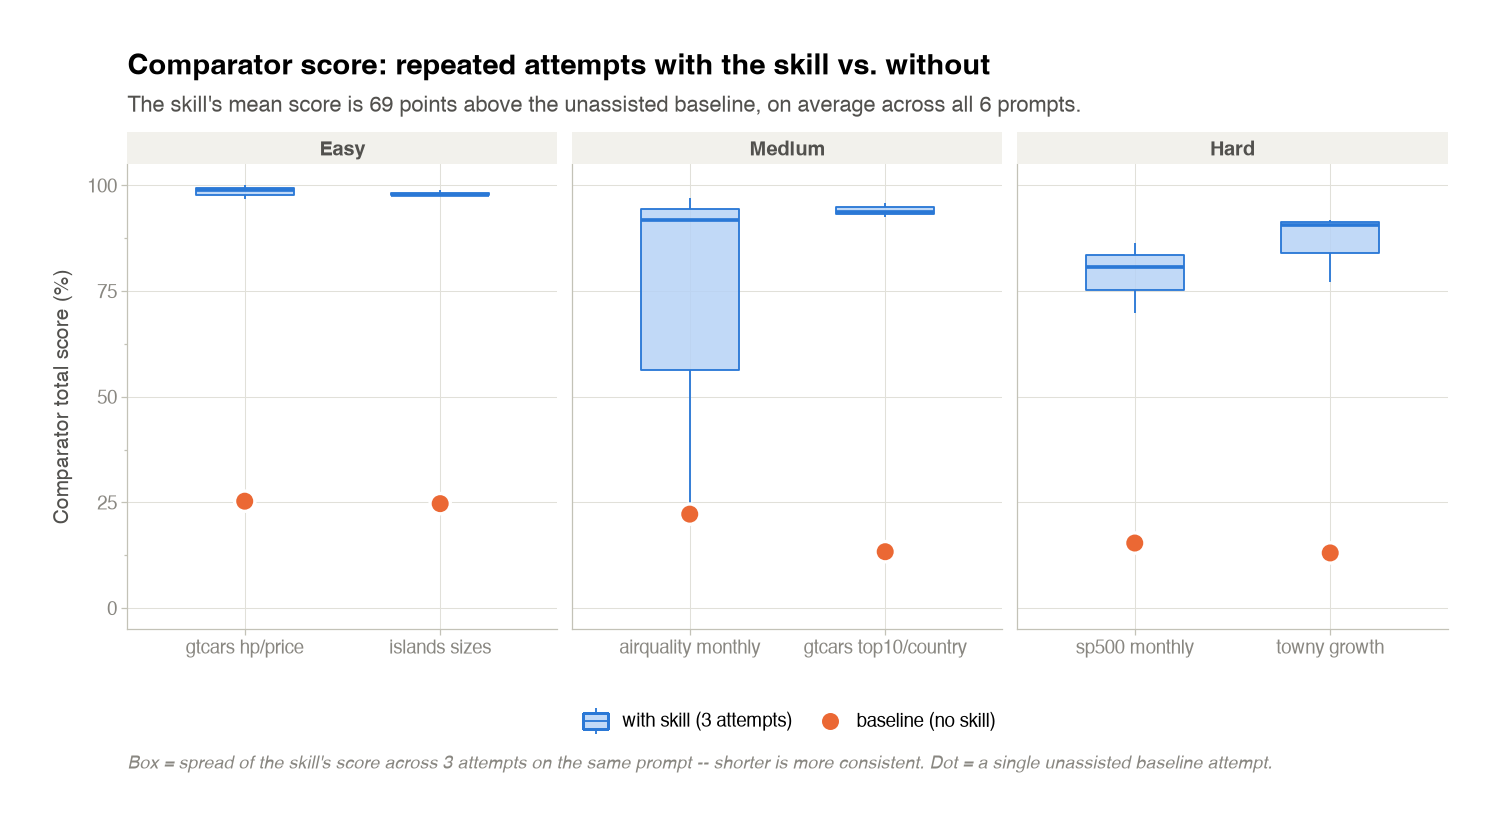
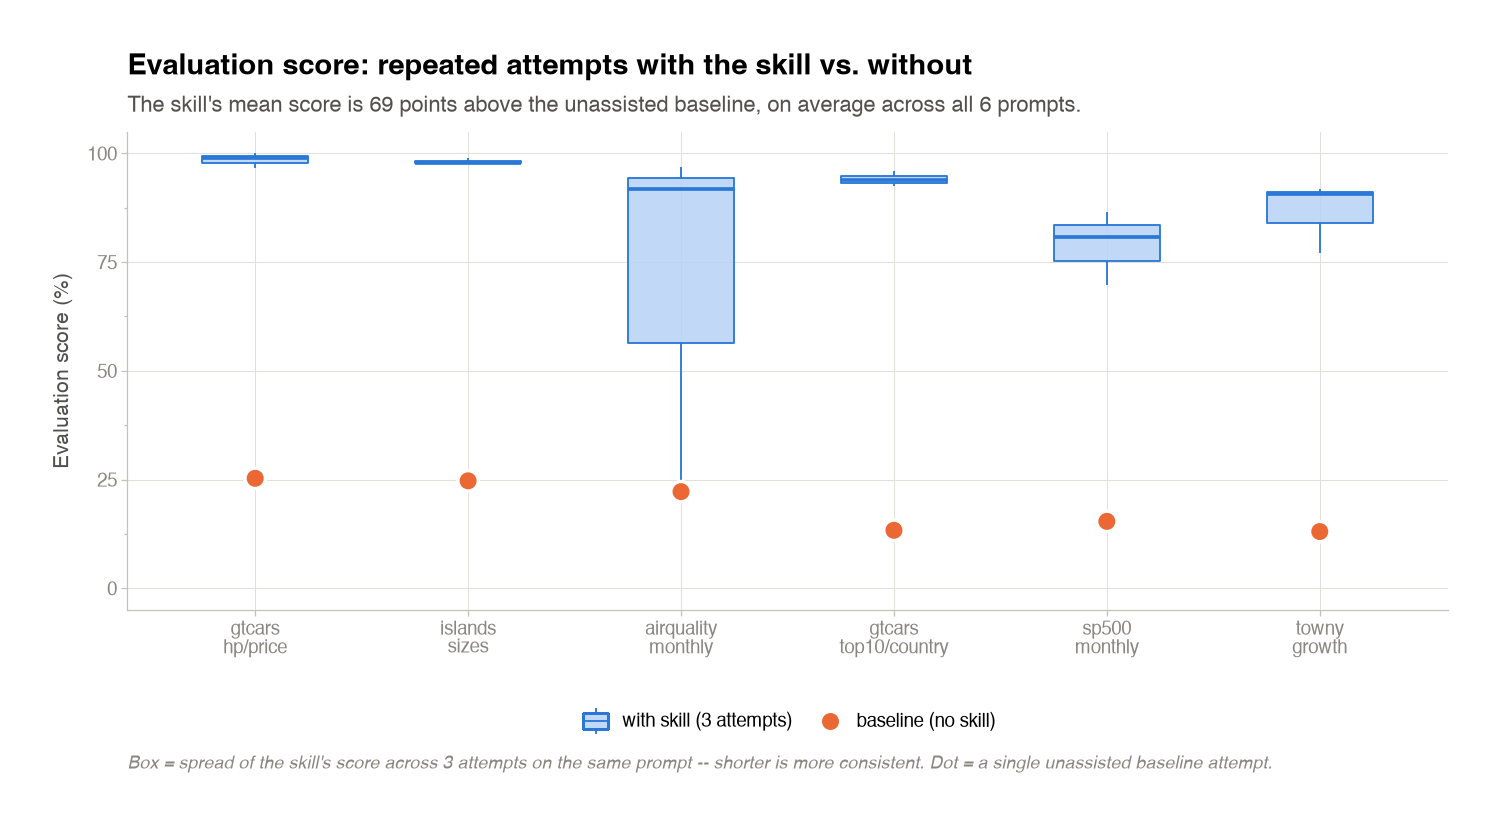
fix(eval-results): PR #120 review round — 6 findings addressed
1. Regenerated all 6 comparator_score.png/usage.png plots from the
   already-recomputed round-5 metrics.json using main's post-#118
   _plots.py (plain json.load(), no re-scoring/judge calls) so they
   match the new "evaluation score" design and no longer visually
   conflict with main's already-merged plot regen.
2. Fixed 4 stale round-4 prose spread references (8.2pp -> 8.1pp) that
   had re-introduced a figure main's b143c10 already corrected.
3. Rewrote the house/towny_growth_trends narrative (top-level SUMMARY.md
   and house/SUMMARY.md): the rowname_col= stub bug is confirmed fixed,
   but the colored-measure-coverage check regressed this round (0/11,
   0/11, 6/11-FAIL) vs. round 4 (0/11, 11/11, 5/11) -- repeat_3 does not
   match the ground truth's two-colored-measure design, it only earns
   credit for density columns; zero of the 5 canonical pop_change_*_pct
   measures were covered by any round-5 repeat.
4. Added a committed README.md next to
   scripts/samples/airquality_monthly_summary/repeat_2 recording the
   tool-call-count comparison (4 vs. 14 vs. 18, no Skill invocation)
   as a self-contained fact, not dependent on the gitignored transcript.
5. Added the house/islands_sizes regression (94.0%/7.9pp -> 85.4%/24.7pp)
   to the honest-limitations sections in both SUMMARY.md files.
6. Nits: 36 lines -> 35 (actual line count), and a grammar fix to the
   "Overall picture" section's opening sentence.

diff --git a/eval-results/SUMMARY.md b/eval-results/SUMMARY.md
@@ -990,7 +990,7 @@ re-expose. Sweep dirs: `runs/sweep/20260813_161436_house_6prompts`,
 | Skill | Mean score | vs. round-4 baseline | Mean spread | vs. round-4 baseline spread |
 |---|---|---|---|---|
 | `house` | 83.5% | +0.2pp (83.3%) | 8.9pp | 16.4pp |
-| `prose` | 87.9% | +3.2pp (84.7%) | 9.9pp | 8.2pp |
+| `prose` | 87.9% | +3.2pp (84.7%) | 9.9pp | 8.1pp |
 | `scripts` | 87.7% | +1.7pp (86.0%) | 19.2pp | 16.4pp |
 
 All figures independently recomputed from this round's actual committed
@@ -1002,7 +1002,7 @@ kind of run-to-run noise a 3-repeat haiku sample produces on an unchanged
 codebase — none of the three moved enough to read as a real effect one
 way or the other. **Consistency (mean spread) is the more mixed part of
 the picture: it improved substantially for `house` (16.4pp → 8.9pp) but
-got WORSE for `scripts` (16.4pp → 19.2pp) and `prose` (8.2pp → 9.9pp)** —
+got WORSE for `scripts` (16.4pp → 19.2pp) and `prose` (8.1pp → 9.9pp)** —
 this is not an unambiguous win, and is explained below by, respectively, a
 brand-new single-repeat outlier (`scripts`) and one wide-spread prompt
 (`prose`), not a systemic regression.
@@ -1030,7 +1030,7 @@ that as the stub, and all three score a clean 10/10 on "Row/entity
 selection identity." This is a clean, unambiguous confirmation — no
 caveats.
 
-### Confirmed, with a caveat: `house/towny_growth_trends`'s catastrophic outlier does not recur — but its actual dominant cause was a different, already-fixed bug, and a milder version of the coloring issue still shows up
+### Confirmed, with a caveat: `house/towny_growth_trends`'s catastrophic outlier does not recur — its dominant cause (a missing stub) is fixed, but the colored-measure-coverage check it also exposed actually regressed this round, not improved
 
 Round 4's `house/towny_growth_trends/repeat_1` scored 39.5% vs. 85–90%
 siblings. Re-reading that round's actual stored report
@@ -1046,36 +1046,37 @@ exact `set_index()`-vs-`rowname_col=` confusion was already a known,
 separately-tracked bug, fixed by PR #107 — not something PR #113 (the
 under-coloring fix) touches.
 
-That said, the same round-4 report also shows a **second, genuine**
-under-coloring problem in that same candidate: "Colored-measure selection"
-scored 0/6 (0/11 canonical colored measures covered), because its one
-`heatmap()` call only touched the raw density columns and never touched
-the inter-census growth/change columns — exactly the pattern PR #113's
-"restrained is not the same as optional" rule targets, just not the
-dominant driver of that repeat's low score.
-
 This round's three fresh `towny_growth_trends` repeats score
 [71.1%, 70.6%, 78.4%] — clustered, no catastrophic outlier — and all
 three now build the stub with `rowname_col=` correctly (confirmed by
-reading each `table.py`) and all three call `heatmap()` at least once
-(also confirmed). But reading all three in full shows the under-coloring
-issue is **not fully gone, just milder**: `repeat_1` and `repeat_2` each
-call `heatmap()` only on the inter-census change/percent columns and
-leave the density columns completely plain (the mirror-image miss from
-round 4's repeat_1, which colored density and left the change columns
-plain); only `repeat_3` calls `heatmap()` on both groups, matching the
-ground truth's two-colored-measure design
-(`CANONICAL_MEASURES["colored"]` in
-`prompts/hard/ground_truth/towny_growth_trends.py` lists both the six
-`density_*` columns and the five `pop_change_*_pct` columns). The
-comparator's own per-repeat "Colored-measure selection" sub-score reflects
-this directly: 0/6 for `repeat_1` and `repeat_2`, 3/6 for `repeat_3`. So:
-the catastrophic-outlier shape is gone, and the specific `set_index()`
-bug that dominated round 4's score is confirmed absent in a fresh sample,
-but "leave one of the two designated colorable measures completely
-uncolored" recurs in 2 of 3 fresh repeats here — it just no longer
-produces a catastrophic score on its own, because it's no longer stacked
-on top of a missing stub.
+reading each `table.py`), so that specific, previously-dominant bug is
+confirmed fixed. But on "Colored-measure selection" itself (11 canonical
+colored measures: 6 `density_*` sequential + 5 `pop_change_*_pct`
+diverging, per `CANONICAL_MEASURES["colored"]` in
+`prompts/hard/ground_truth/towny_growth_trends.py`), coverage got worse,
+not better:
+
+| | repeat_1 | repeat_2 | repeat_3 |
+|---|---|---|---|
+| Round 4 | 0/11 (FAIL) | **11/11 (PASS)** | 5/11 (FAIL) |
+| Round 5 | 0/11 (FAIL) | 0/11 (FAIL) | 6/11 (FAIL) |
+
+Round 4 had one repeat (`repeat_2`) earn full credit here; round 5's best
+repeat (`repeat_3`, 6/11) still fails the check outright, and its 6
+covered measures are all `density_*` columns — its "Computed/derived
+value correctness" sub-score (5/10) lists all five `pop_change_*_pct`
+measures as unmatched. `repeat_3` does visually heatmap two groups
+(`Greens` and `RdYlGn`, per its report), but the second group is a
+density-derived percent-change column of its own invention, not the
+ground truth's `pop_change_*_pct` measures — so, despite appearances, it
+does **not** match the ground truth's two-colored-measure design.
+`repeat_1` and `repeat_2` cover zero canonical colored measures each.
+Across all 3 round-5 repeats, **zero** of the 5 canonical
+`pop_change_*_pct` measures were covered by any repeat, vs. round 4's one
+full-credit repeat. So: the catastrophic-outlier shape is gone and the
+`set_index()` stub bug is confirmed fixed, but on the specific mechanical
+check this prompt was designed to exercise, round 5 is a regression from
+round 4, not an improvement.
 
 ### A new outlier: `scripts/airquality_monthly_summary/repeat_2` (21.1%) — traced to the model skipping the skill invocation entirely, not a doc or comparator gap
 
@@ -1086,31 +1087,32 @@ near-total, comprehensive miss, not a narrow mistake: no stub column, no
 colored measures, no frame, no hairlines, no header branding, no caption
 — 19/90 (21.1%), failing nearly every mechanical check across the board.
 
-Reading `table.py` confirms it: the script is 36 lines of bare
+Reading `table.py` confirms it: the script is 35 lines of bare
 `pandas`/`great_tables` code — `import pandas as pd; from great_tables
 import GT` — with none of the skill's helper imports
 (`gt_consistency.py`, which the sandbox had already made available in the
-same directory) anywhere in it. Reading the run's own transcript
-(`runs/sweep/20260813_161442_scripts_6prompts/prompts/
-airquality_monthly_summary/repeat_2/transcript.json`) makes the cause
-unambiguous: **the model never invoked the `Skill` tool at all** in this
-run — its tool-call sequence is just `Read` (the CSV) → `Write`
-(`table.py`) → `Bash` (run it) → `Read` (view the PNG), 4 calls total in
-5 turns. Its two siblings on the same prompt (`repeat_1`, 14 tool calls;
-`repeat_3`, 18 tool calls) both open with a `Skill` call before doing
-anything else, then read several reference files before writing code —
-the normal pattern. This is a comprehensive, one-off miss (the model
-electing not to invoke an available skill on one specific run, not a
-narrow mistake within an invoked skill), consistent with this project's
-own prior findings elsewhere in this file about haiku-tier sampling
-variance on a 3-repeat sample — not a new doc or comparator gap, since
-the skill materials were present and correctly used by both siblings on
-the identical prompt.
+same directory) anywhere in it. This tool-call-count comparison is a
+committed, self-contained fact (see
+`eval-results/scripts/samples/airquality_monthly_summary/repeat_2/README.md`),
+not dependent on the gitignored transcript it was originally read from:
+**the model never invoked the `Skill` tool at all** in this run — its
+tool-call sequence is just `Read` (the CSV) → `Write` (`table.py`) →
+`Bash` (run it) → `Read` (view the PNG), 4 calls total in 5 turns. Its two
+siblings on the same prompt (`repeat_1`, 14 tool calls; `repeat_3`, 18
+tool calls) both open with a `Skill` call before doing anything else,
+then read several reference files before writing code — the normal
+pattern. This is a comprehensive, one-off miss (the model electing not to
+invoke an available skill on one specific run, not a narrow mistake
+within an invoked skill), consistent with this project's own prior
+findings elsewhere in this file about haiku-tier sampling variance on a
+3-repeat sample — not a new doc or comparator gap, since the skill
+materials were present and correctly used by both siblings on the
+identical prompt.
 
 This is also the main driver of `scripts`' worse mean spread this round
 (19.2pp vs. round 4's 16.4pp): `airquality_monthly_summary`'s own spread
 is 75.8pp (max 96.9%, min 21.1%), by far the widest single-prompt spread
-in this sweep. `prose`'s worse mean spread (9.9pp vs. 8.2pp) has a
+in this sweep. `prose`'s worse mean spread (9.9pp vs. 8.1pp) has a
 different, unrelated driver: `towny_growth_trends` spread 28.9pp
 (`[92.8%, 88.7%, 63.9%]`) — not investigated further here, out of scope
 for this verification pass, which focused on the two round-4-outlier
@@ -1118,14 +1120,24 @@ prompts and the newly-appeared one above.
 
 ### Overall picture
 
-Two of round 4's two catastrophic single-repeat outliers do not recur in
-this fresh sample (`scripts/gtcars_hp_price` cleanly; `house/
+Round 4's two catastrophic single-repeat outliers do not recur in this
+fresh sample (`scripts/gtcars_hp_price` cleanly; `house/
 towny_growth_trends` with the caveat above that its dominant cause was a
-different bug than the one this task set out to check, though a milder
-form of the coloring issue itself persists). Mean scores are flat-to-up
-for all three skills, within noise. Consistency improved substantially
-for `house`, but got worse for `scripts` (a brand-new, unrelated outlier)
-and mildly worse for `prose` — a genuinely mixed result, not a clean
-across-the-board win, and exactly the kind of run-to-run variance a
-3-repeat haiku sample on an unchanged codebase is expected to produce.
-See each skill's own `SUMMARY.md` for the full per-prompt breakdown.
+different, already-fixed bug than the one this task set out to check —
+and, on that actual check, colored-measure coverage regressed rather than
+improved). Mean scores are flat-to-up for all three skills, within noise.
+Consistency improved substantially for `house`, but got worse for
+`scripts` (a brand-new, unrelated outlier) and mildly worse for `prose` —
+a genuinely mixed result, not a clean across-the-board win, and exactly
+the kind of run-to-run variance a 3-repeat haiku sample on an unchanged
+codebase is expected to produce.
+
+**One more honest limitation not yet called out above:** `house`'s
+`islands_sizes` also regressed this round — from round 4's 94.0% mean
+(7.9pp spread) to this round's 85.4% mean (24.7pp spread), driven by
+`repeat_2` scoring 69.7% against ~94–96% siblings. This is `house`'s
+second-largest single-prompt movement this round, after
+`towny_growth_trends` above, and (like that prompt) is not investigated
+further here — out of scope for a verification pass that focused on the
+two round-4 outlier prompts and the newly-appeared `scripts` one. See
+each skill's own `SUMMARY.md` for the full per-prompt breakdown.

diff --git a/eval-results/house/SUMMARY.md b/eval-results/house/SUMMARY.md
@@ -213,32 +213,57 @@ Per-prompt means: `gtcars_hp_price` 97.4%, `gtcars_top10_by_country` 95.1%,
 `islands_sizes` 85.4%, `sp500_monthly_performance` 77.7%, `towny_growth_trends`
 73.4%, `airquality_monthly_summary` 72.2%.
 
-**`towny_growth_trends`'s catastrophic outlier does not recur, but for a more
-nuanced reason than "the under-coloring bug was fixed."** Round 4's `repeat_1`
-scored 39.5%, and re-reading its actual stored report shows the dominant cause was
-a *different*, already-separately-fixed bug: it built `GT(gt_data.set_index('Town'))`
-instead of `rowname_col="Town"`, so no stub existed at all, cascading zeros across
-row identity, value correctness, column-set matching, stub existence, striping, and
-header branding (PR #107 fixed this exact confusion). That same round-4 report also
-shows a genuine, secondary under-coloring problem in the same candidate: its one
-`heatmap()` call touched only `density_cols`, never the inter-census change
-columns — 0/6 on "Colored-measure selection," the pattern PR #113 targets.
+**`towny_growth_trends`'s catastrophic outlier does not recur, but the fix is
+narrower than it first looks, and the specific colored-measure check this table
+was designed to exercise is actually worse this round, not better.** Round 4's
+`repeat_1` scored 39.5%, and re-reading its actual stored report shows the
+dominant cause was a *different*, already-separately-fixed bug: it built
+`GT(gt_data.set_index('Town'))` instead of `rowname_col="Town"`, so no stub
+existed at all, cascading zeros across row identity, value correctness,
+column-set matching, stub existence, striping, and header branding (PR #107
+fixed this exact confusion).
 
 This round's three fresh repeats score `[71.1%, 70.6%, 78.4%]` — clustered, no
 catastrophic outlier. Reading all three `table.py` files confirms all three now
-build the stub with `rowname_col=` (not `.set_index()`) and all three call
-`heatmap()` at least once. But the under-coloring issue is only partially resolved,
-not eliminated: `repeat_1` and `repeat_2` each heatmap only the change/percent
-columns and leave `density_1996`..`density_2021` completely plain (the mirror image
-of round 4's miss); only `repeat_3` heatmaps both groups, matching the ground
-truth's two-colored-measure design (`density_*` sequential, `pop_change_*_pct`
-diverging). The comparator's own sub-scores show this directly: "Colored-measure
-selection" is 0/6 for `repeat_1`/`repeat_2` and 3/6 for `repeat_3`. So: the
-catastrophic-score shape is gone (no repeat is stacking a missing-stub failure on
-top of an under-coloring failure anymore), and the specific `set_index()` bug is
-confirmed absent in a fresh sample, but "leave one of the two designated colorable
-measures completely plain" still shows up in 2 of 3 repeats here — it just no
-longer compounds into a catastrophic score on its own.
+build the stub with `rowname_col=` (not `.set_index()`), so that specific,
+previously-primary bug is confirmed fixed. But on the "Colored-measure selection"
+check itself — 11 canonical colored measures: 6 `density_*` (sequential) + 5
+`pop_change_*_pct` (diverging) — coverage regressed, it did not improve:
+
+| | repeat_1 | repeat_2 | repeat_3 |
+|---|---|---|---|
+| Round 4 | 0/11 (FAIL) | **11/11 (PASS)** | 5/11 (FAIL) |
+| Round 5 | 0/11 (FAIL) | 0/11 (FAIL) | 6/11 (FAIL) |
+
+Round 4 had one repeat (`repeat_2`) earn full credit on this check. Round 5's best
+repeat (`repeat_3`, 6/11) still fails it outright, and — critically — **all 6 of
+its covered measures are the `density_*` columns; none of the 5 canonical
+`pop_change_*_pct` measures are covered.** Its own "Computed/derived value
+correctness" sub-score confirms this directly: 5/10, listing all five
+`pop_change_1996_2001_pct`..`pop_change_2016_2021_pct` measures as unmatched.
+`repeat_3` does color both a sequential and a diverging group visually
+(`Greens` and `RdYlGn`, per its report), but it is coloring the wrong second
+group — density-derived percent-change columns of its own invention, not the
+ground truth's `pop_change_*_pct` measures — so it does **not** match the ground
+truth's two-colored-measure design, despite superficially looking like it does.
+`repeat_1` and `repeat_2` cover zero canonical colored measures each, having
+heatmapped only their own density-derived change columns instead.
+
+Across all 3 round-5 repeats, **zero** of the 5 canonical `pop_change_*_pct`
+measures were covered by any repeat, versus round 4's one full-credit repeat. So
+on this specific mechanical check — the one this prompt was designed to exercise
+most directly — round 5 is worse than round 4, not merely "milder" or
+"incomplete." The `rowname_col=` stub bug is fixed; the measure-coverage
+regression is a separate, unresolved gap this sweep surfaces fresh.
+
+**A second, honest limitation this round: `islands_sizes` also regressed.**
+Round 4's `islands_sizes` scored `[91.0%, 92.1%, 98.9%]` (94.0% mean, 7.9pp
+spread); this round it scores `[94.4%, 69.7%, 92.1%]` (85.4% mean, 24.7pp
+spread) — `repeat_2`'s 69.7% vs. ~92–94% siblings is `house`'s second-largest
+single-prompt movement this round, after `towny_growth_trends` above. Not
+investigated further here — out of scope for a verification pass that focused
+on the two round-4 outlier prompts and the newly-appeared `scripts` one (see
+top-level `SUMMARY.md`).
 
 Execution: 24/24 successful (no crashes), consistent with `prose` and `scripts`
 this round — see the top-level `SUMMARY.md` for the caveat on why this isn't

diff --git a/eval-results/scripts/SUMMARY.md b/eval-results/scripts/SUMMARY.md
@@ -208,19 +208,19 @@ the board. No caveats on this one.
 reason this skill's mean spread got worse, not better, this round. Its `report.txt`
 shows a comprehensive, near-total failure (no stub, no colored measures, no frame,
 no hairlines, no header branding, no caption — 19/90). Reading its `table.py`
-confirms this is not a narrow, specific mistake: the script is 36 lines of bare
+confirms this is not a narrow, specific mistake: the script is 35 lines of bare
 `pandas`/`great_tables` code with none of `gt_consistency.py`'s helpers imported at
-all. Reading the run's own transcript
-(`runs/sweep/20260813_161442_scripts_6prompts/prompts/airquality_monthly_summary/
-repeat_2/transcript.json`) shows why: **the model never invoked the `Skill` tool in
-this run** — its full tool sequence is `Read` (CSV) → `Write` (`table.py`) → `Bash`
-(run) → `Read` (view PNG), 4 calls in 5 turns, versus `repeat_1` (14 calls) and
-`repeat_3` (18 calls), both of which open with a `Skill` call before writing any
-code. This reads as inherent haiku-tier sampling variance in whether the model
-elects to invoke an available skill at all on a given run, not a doc or comparator
-gap — the skill materials (including a copy of `gt_consistency.py` in the working
-directory) were present and used correctly by both siblings on the identical
-prompt.
+all. This tool-call-count comparison is committed as a self-contained fact (see
+[`samples/airquality_monthly_summary/repeat_2/README.md`](samples/airquality_monthly_summary/repeat_2/README.md)),
+not dependent on the gitignored transcript it was originally read from: **the
+model never invoked the `Skill` tool in this run** — its full tool sequence is
+`Read` (CSV) → `Write` (`table.py`) → `Bash` (run) → `Read` (view PNG), 4 calls
+in 5 turns, versus `repeat_1` (14 calls, opening with `Skill`) and `repeat_3`
+(18 calls, also opening with `Skill`). This reads as inherent haiku-tier
+sampling variance in whether the model elects to invoke an available skill at
+all on a given run, not a doc or comparator gap — the skill materials
+(including a copy of `gt_consistency.py` in the working directory) were present
+and used correctly by both siblings on the identical prompt.
 
 Execution: 24/24 successful (no crashes) — see the top-level `SUMMARY.md` for the
 caveat on why this isn't claimed as a rigorously-proven improvement over any pre-fix

diff --git a/eval-results/scripts/samples/airquality_monthly_summary/repeat_2/README.md b/eval-results/scripts/samples/airquality_monthly_summary/repeat_2/README.md
@@ -1,0 +1,28 @@
+# `airquality_monthly_summary/repeat_2` — why this repeat is an outlier
+
+This invocation scored 21.1% (19/90) vs. 91.8%/96.9% for its two siblings on the
+same prompt — the widest single-prompt spread (75.8pp) in the round-5 sweep. Its
+`table.py` is 35 lines of bare `pandas`/`great_tables` code with none of
+`gt_consistency.py`'s helpers imported at all, which is consistent with the model
+never having read the skill's reference material before writing code.
+
+The evidence for that in the original run is `runs/sweep/20260813_161442_scripts_6prompts/
+prompts/airquality_monthly_summary/repeat_2/transcript.json`, which is gitignored
+and not part of this repo's history, so a future reader of `SUMMARY.md` can't
+re-derive this from committed artifacts alone. This file records the specific,
+already-observed comparison as a plain fact instead:
+
+| Repeat | Tool calls | Opens with `Skill`? |
+|---|---|---|
+| `repeat_1` | 14 | yes |
+| `repeat_2` (this one) | 4 | **no** — `Read` (CSV) -> `Write` (`table.py`) -> `Bash` (run) -> `Read` (view PNG) |
+| `repeat_3` | 18 | yes |
+
+`repeat_2`'s tool sequence never includes a `Skill` call at all, unlike both
+siblings, which open with one before reading any reference files or writing code.
+Read together with the near-total comparator miss above (no stub, no colored
+measures, no frame, no hairlines, no header branding, no caption), this points to
+the model electing not to invoke the available skill on this particular run,
+rather than a doc or comparator gap — the skill materials (including a copy of
+`gt_consistency.py` in the working directory) were present and used correctly by
+both siblings on the identical prompt.

diff --git a/eval-results/prose/SUMMARY.md b/eval-results/prose/SUMMARY.md
@@ -173,7 +173,7 @@ round 4 and this round.
 | Metric | This round | Round 4 |
 |---|---|---|
 | Mean score | 87.9% | 84.7% |
-| Mean repeat spread | 9.9pp | **8.2pp** (worse) |
+| Mean repeat spread | 9.9pp | **8.1pp** (worse) |
 | Mean cost | $0.164 | $0.190 |
 
 Mean score is up (+3.2pp) and mean cost is down, both within the range a fresh
